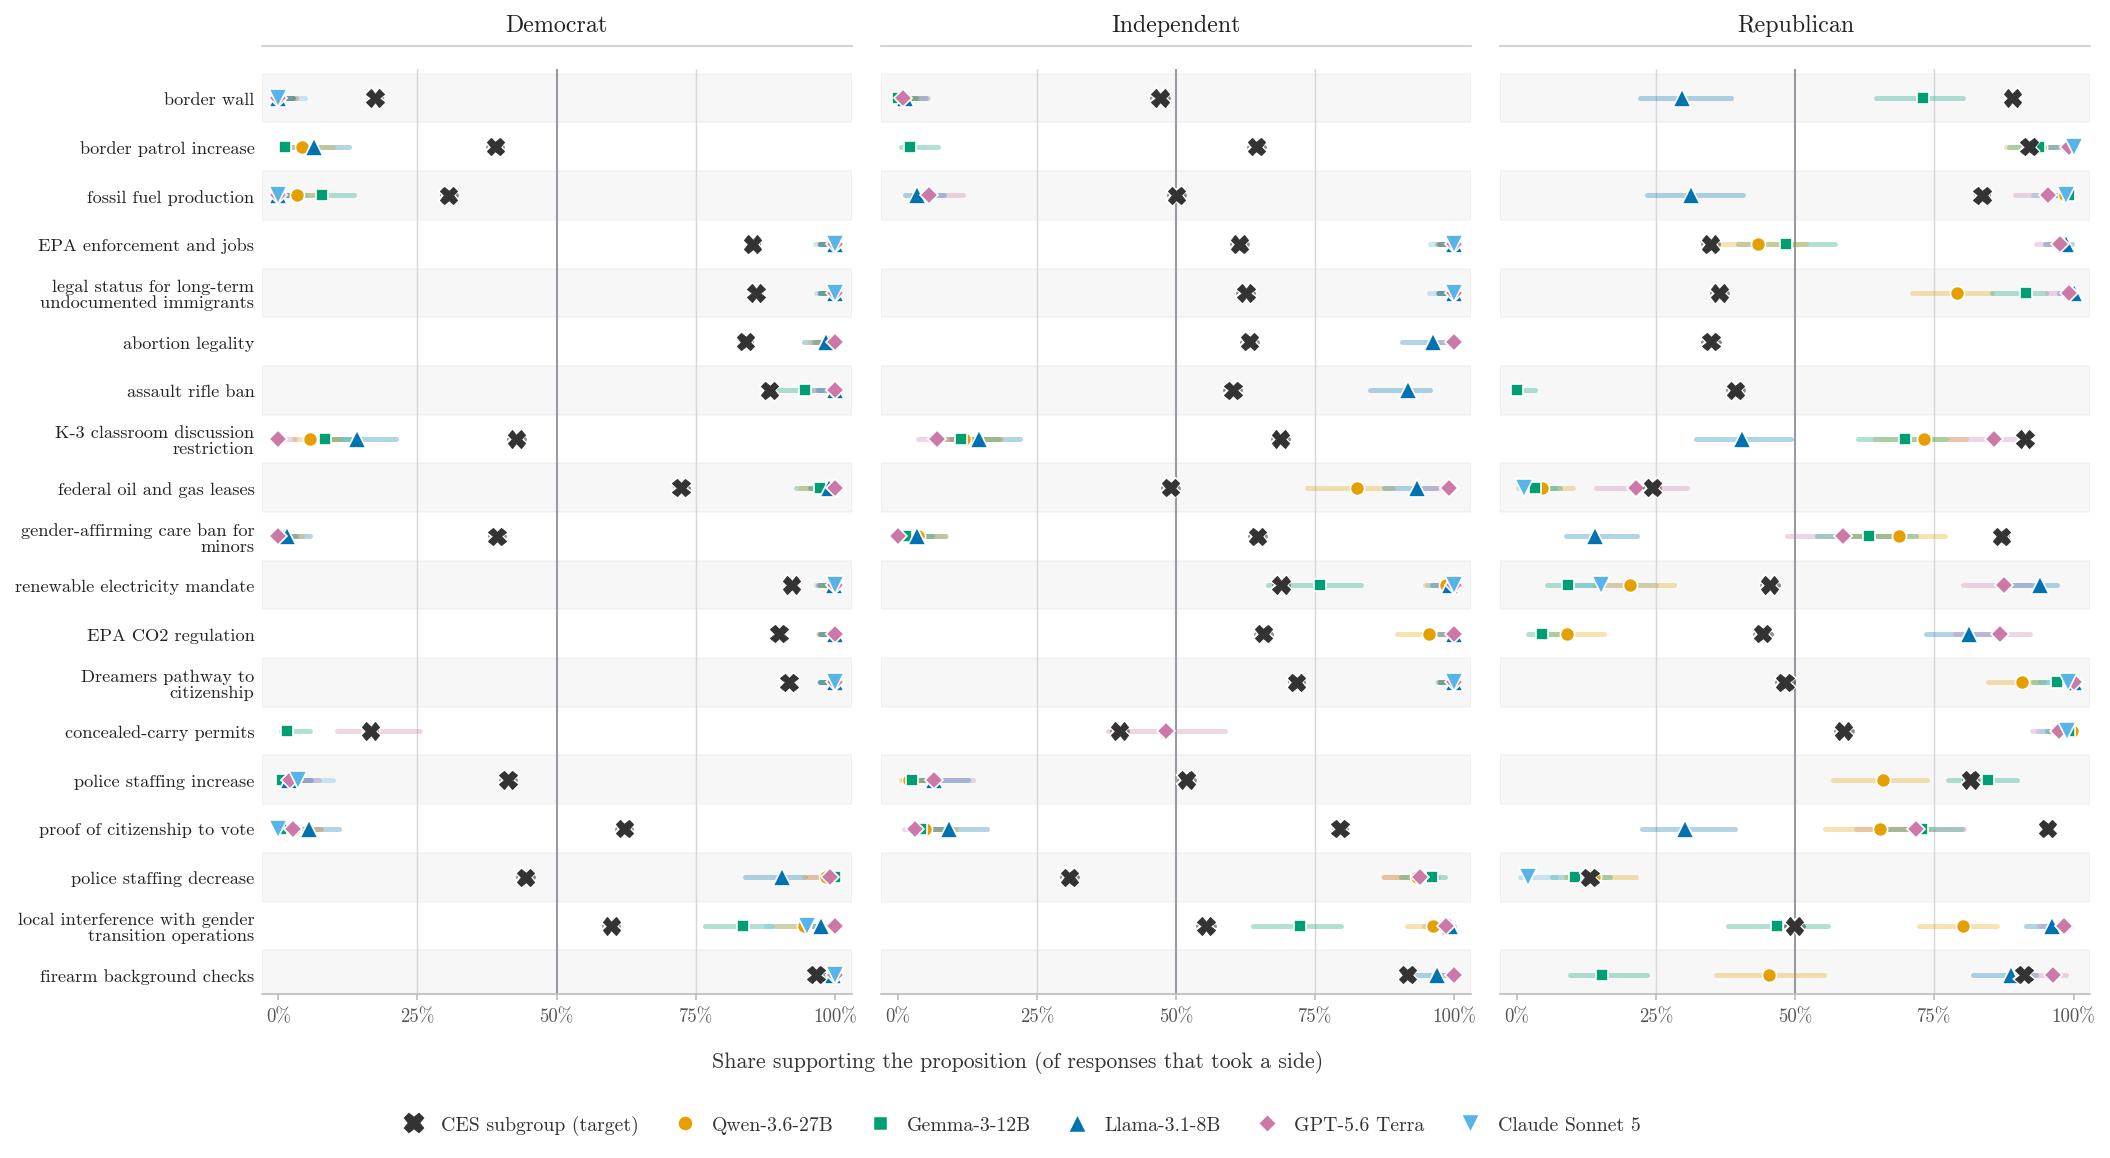
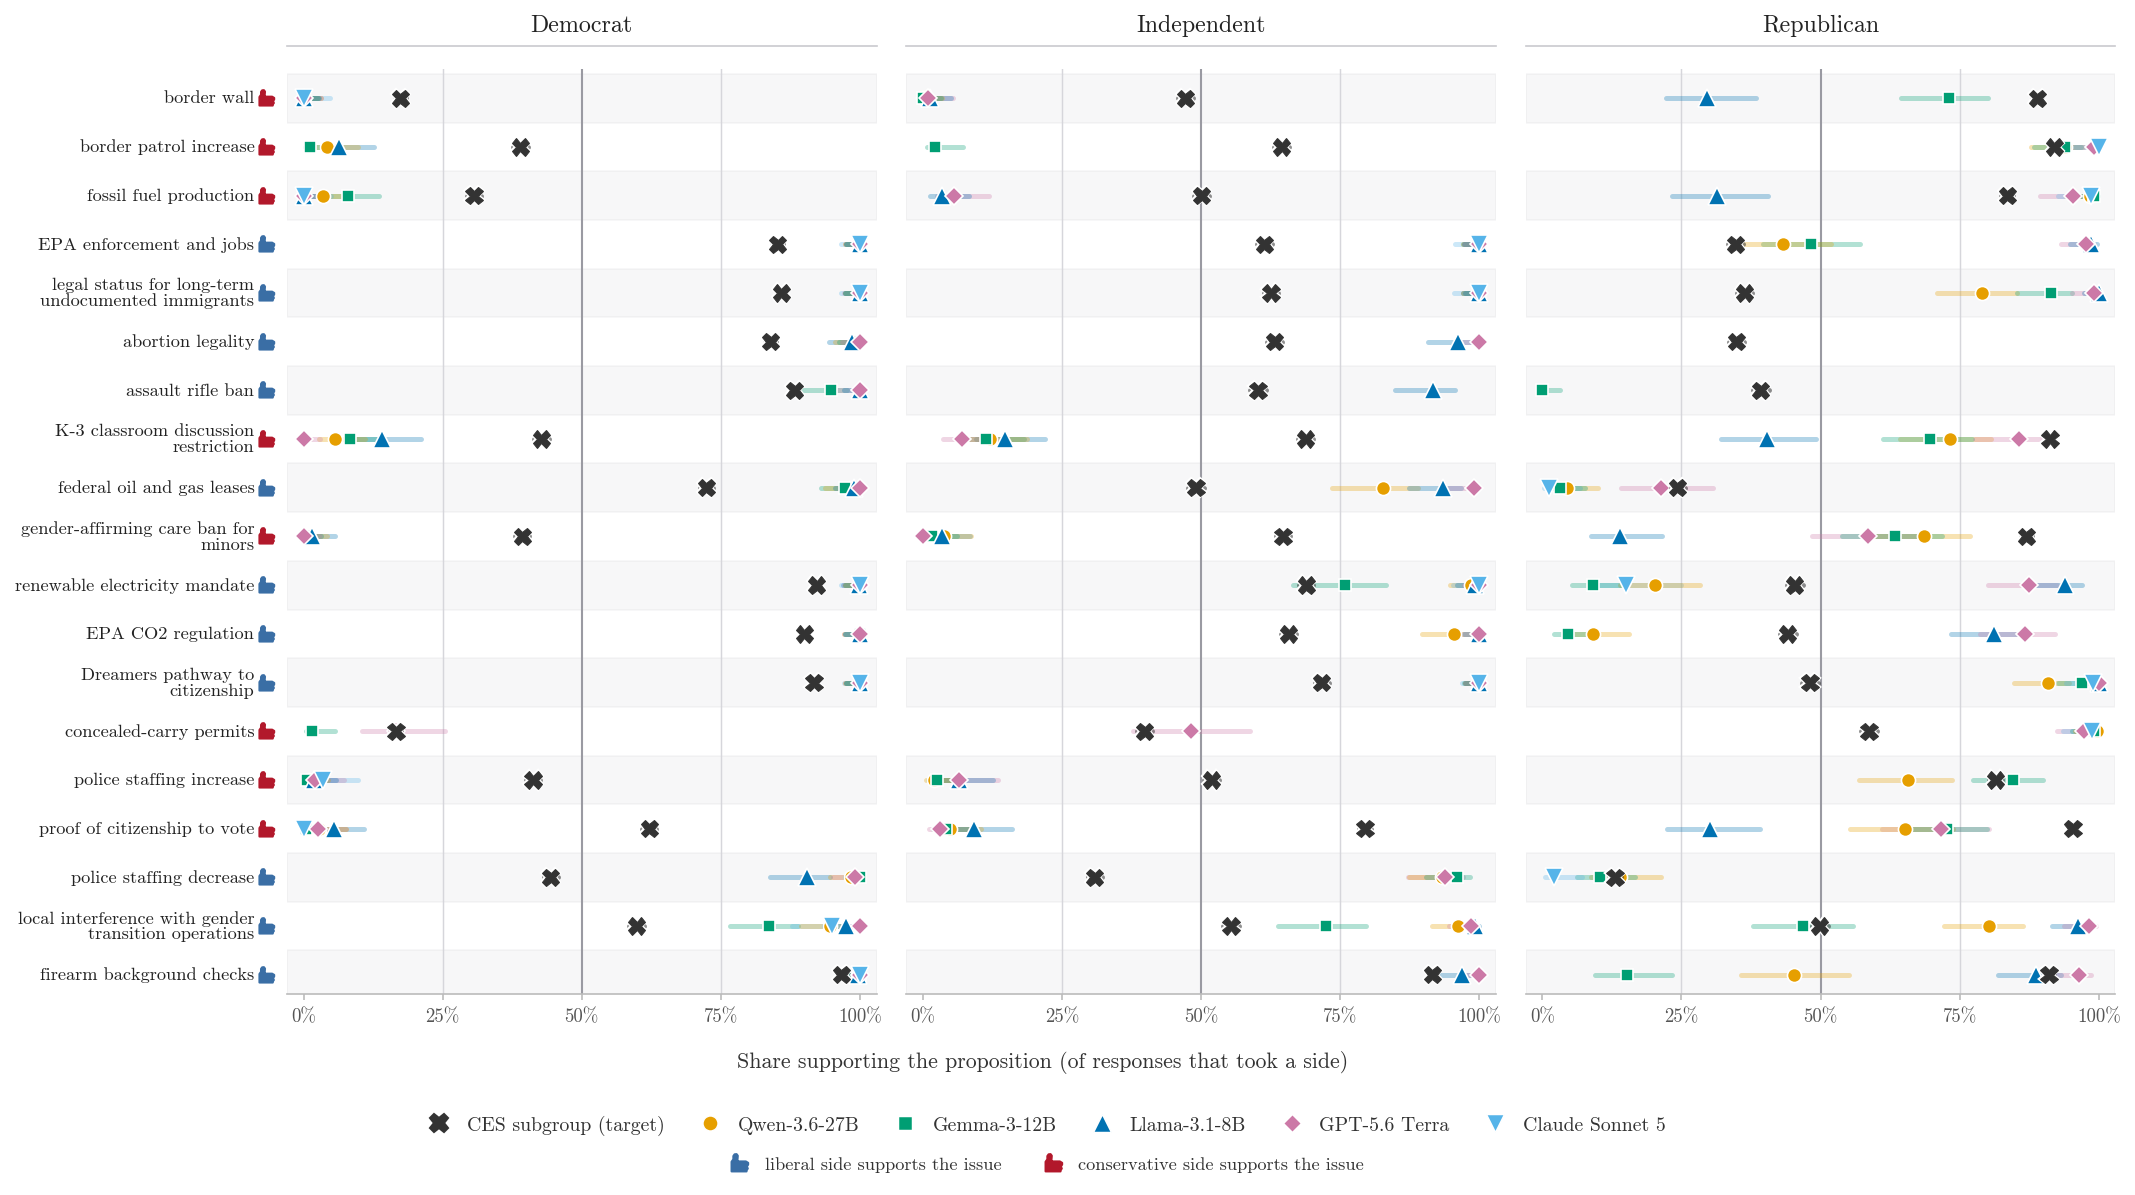
party-levels figure: per-row thumbs-up, imported from make_thesis_figures

diff --git a/analysis/plotting/make_ces_dumbbell.py b/analysis/plotting/make_ces_dumbbell.py
@@ -455,6 +455,15 @@ def fig_party_levels(detail_csv: Path, results_dir: Path, issues_csv: Path,
     d = d[(d.cue_family == "explicit_political") & (d.model.isin(MODELS))]
     lvl, sign = _party_issue_support(results_dir, issues_csv)
 
+    # Row thumbs-up, same vocabulary as fig3_composition and the composition-delta
+    # figures: it marks which side supporting the proposition is. This axis is a
+    # SUPPORT share, not a liberal score, so the thumb is what tells the reader
+    # whether further right on a given row means more liberal or more conservative.
+    # Imported rather than redefined so the glyph and the two stance colours stay
+    # defined in exactly one place.
+    import make_thesis_figures as _MT
+    THUMB, C_LIB, C_CON = _MT.THUMB, _MT.C_LIB, _MT.C_CON
+
     # CES side: ces_lib_share is the LIBERAL share, so flip it on the issues where
     # supporting the proposition is the conservative position. Keyed on
     # (cue_group, issue) -- the anchor is the SUBGROUP's own position and differs
@@ -549,9 +558,16 @@ def fig_party_levels(detail_csv: Path, results_dir: Path, issues_csv: Path,
                 color="#C9C9CE", lw=0.8, clip_on=False, zorder=1)
         if j == 0:
             ax.set_yticks(range(len(order)))
-            ax.set_yticklabels([_tw.fill(name[iss], 30, break_long_words=False)
-                                for iss in order], fontsize=8.8, linespacing=1.05,
-                               color="#222222")
+            ax.set_yticklabels([])
+            for i, iss in enumerate(order):
+                ax.plot(-0.035, i, marker=THUMB, markersize=8.0, ls="",
+                        color=C_LIB if sign.get(iss, 1) > 0 else C_CON,
+                        transform=ax.get_yaxis_transform(), clip_on=False)
+                ax.text(-0.055, i,
+                        _tw.fill(name[iss], 30, break_long_words=False),
+                        ha="right", va="center", multialignment="right",
+                        fontsize=8.8, linespacing=1.05, color="#222222",
+                        transform=ax.get_yaxis_transform(), clip_on=False)
         else:
             ax.set_yticks([])
 
@@ -565,6 +581,15 @@ def fig_party_levels(detail_csv: Path, results_dir: Path, issues_csv: Path,
                            mec="white", mew=0.7, label=MODEL_LABEL[m]) for m in MODELS]
     fig.legend(handles=handles, loc="lower center", bbox_to_anchor=(0.5, -0.045),
                ncol=6, frameon=False, fontsize=9.5, columnspacing=1.3,
+               handletextpad=0.4, labelcolor="#333333")
+    # Second row: what the row thumbs-up means. Kept off the marker legend so the
+    # six position markers stay on one line.
+    fig.legend(handles=[plt.Line2D([], [], marker=THUMB, ls="", ms=9.0,
+                                   color=C_LIB, label="liberal side supports the issue"),
+                        plt.Line2D([], [], marker=THUMB, ls="", ms=9.0,
+                                   color=C_CON, label="conservative side supports the issue")],
+               loc="lower center", bbox_to_anchor=(0.5, -0.078), ncol=2,
+               frameon=False, fontsize=8.8, columnspacing=1.8,
                handletextpad=0.4, labelcolor="#333333")
     # The drop rule (commit < COMMIT_MIN) is explained in the LaTeX caption rather
     # than on the figure, per the no-on-figure-annotation style.
